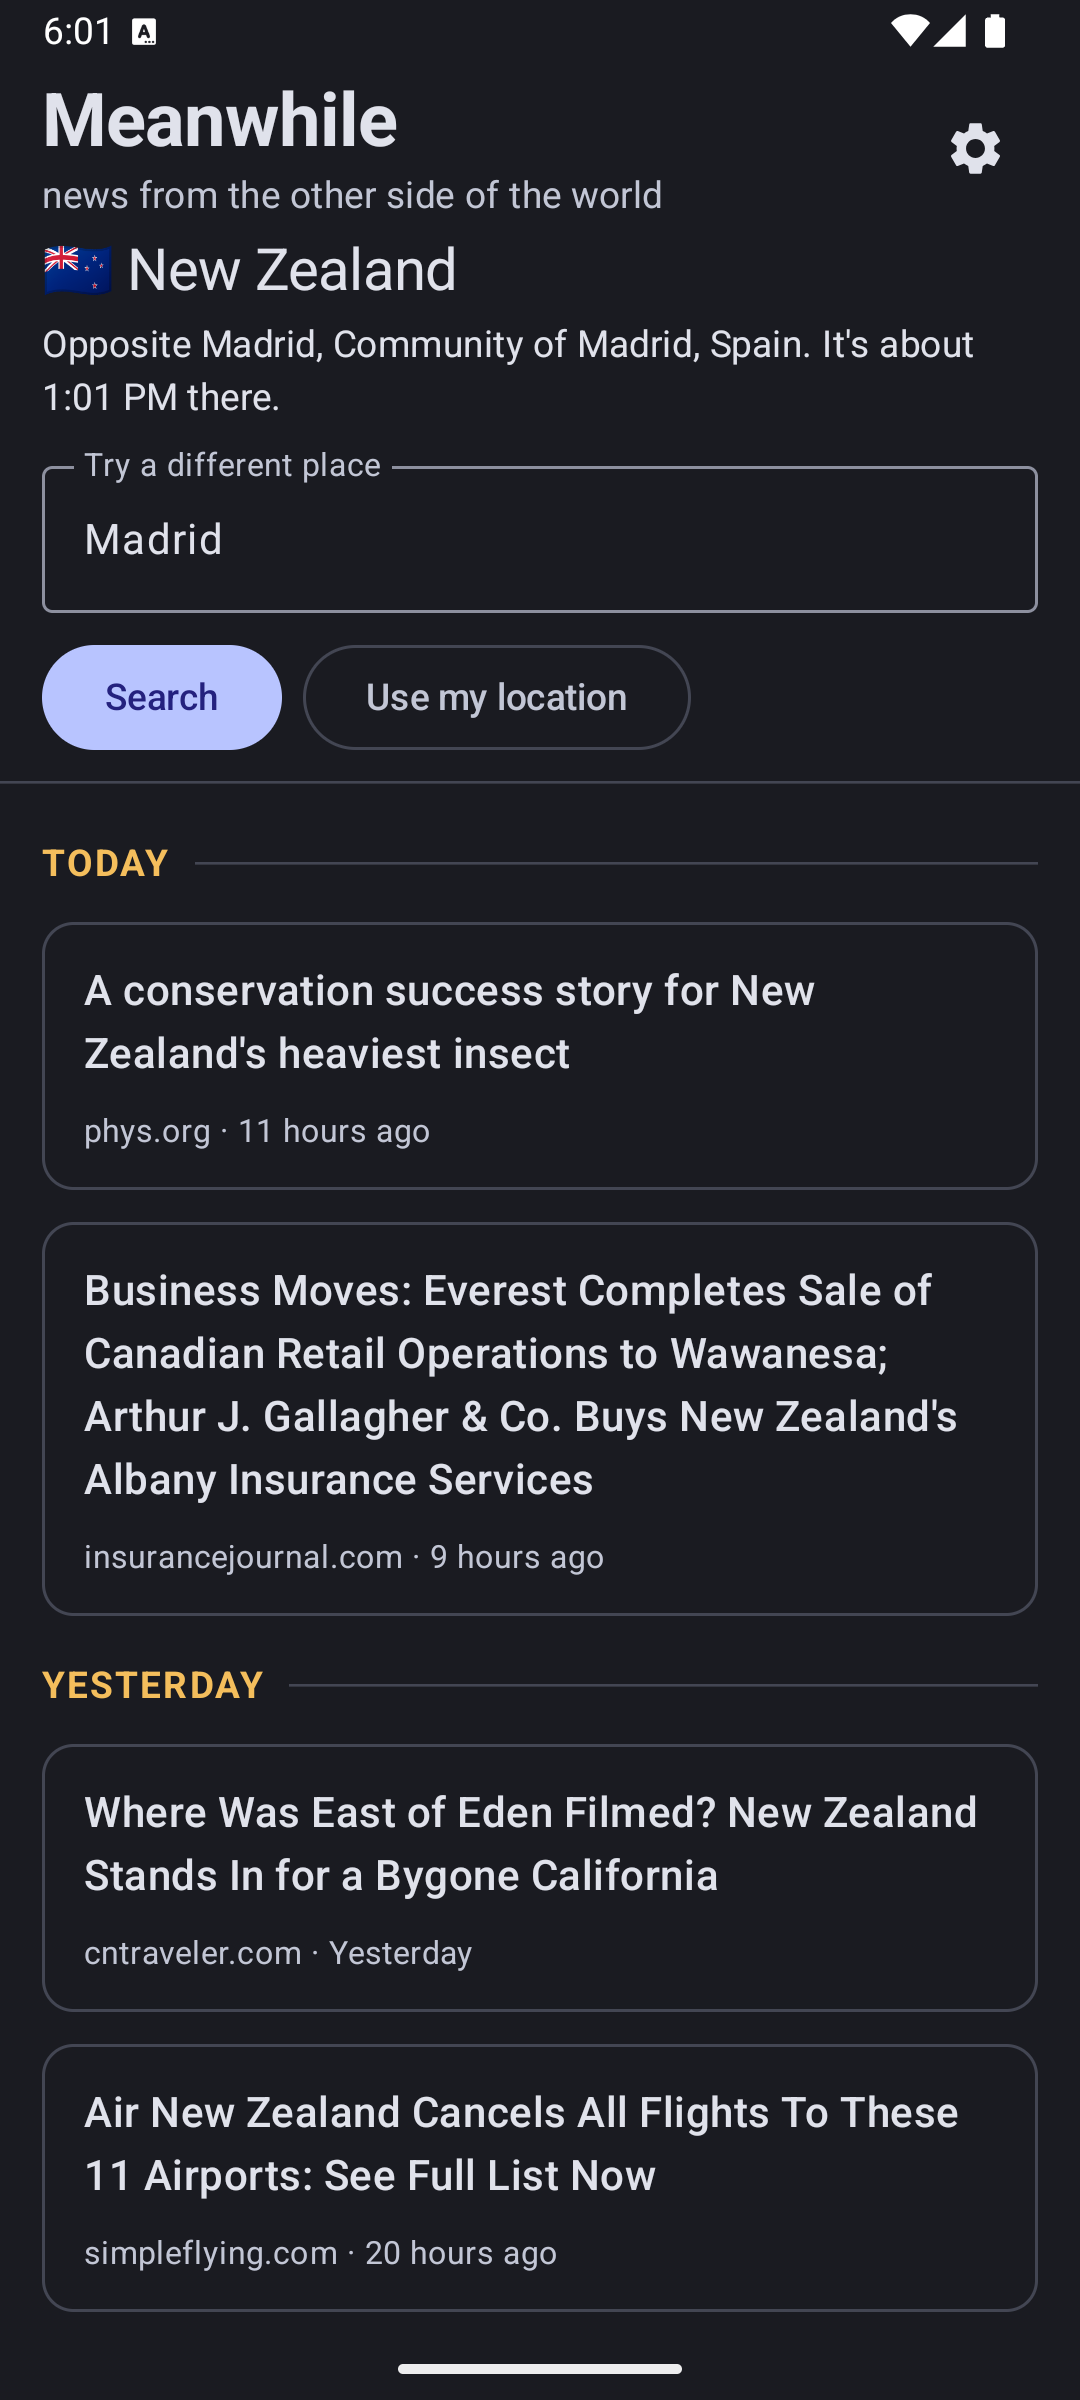
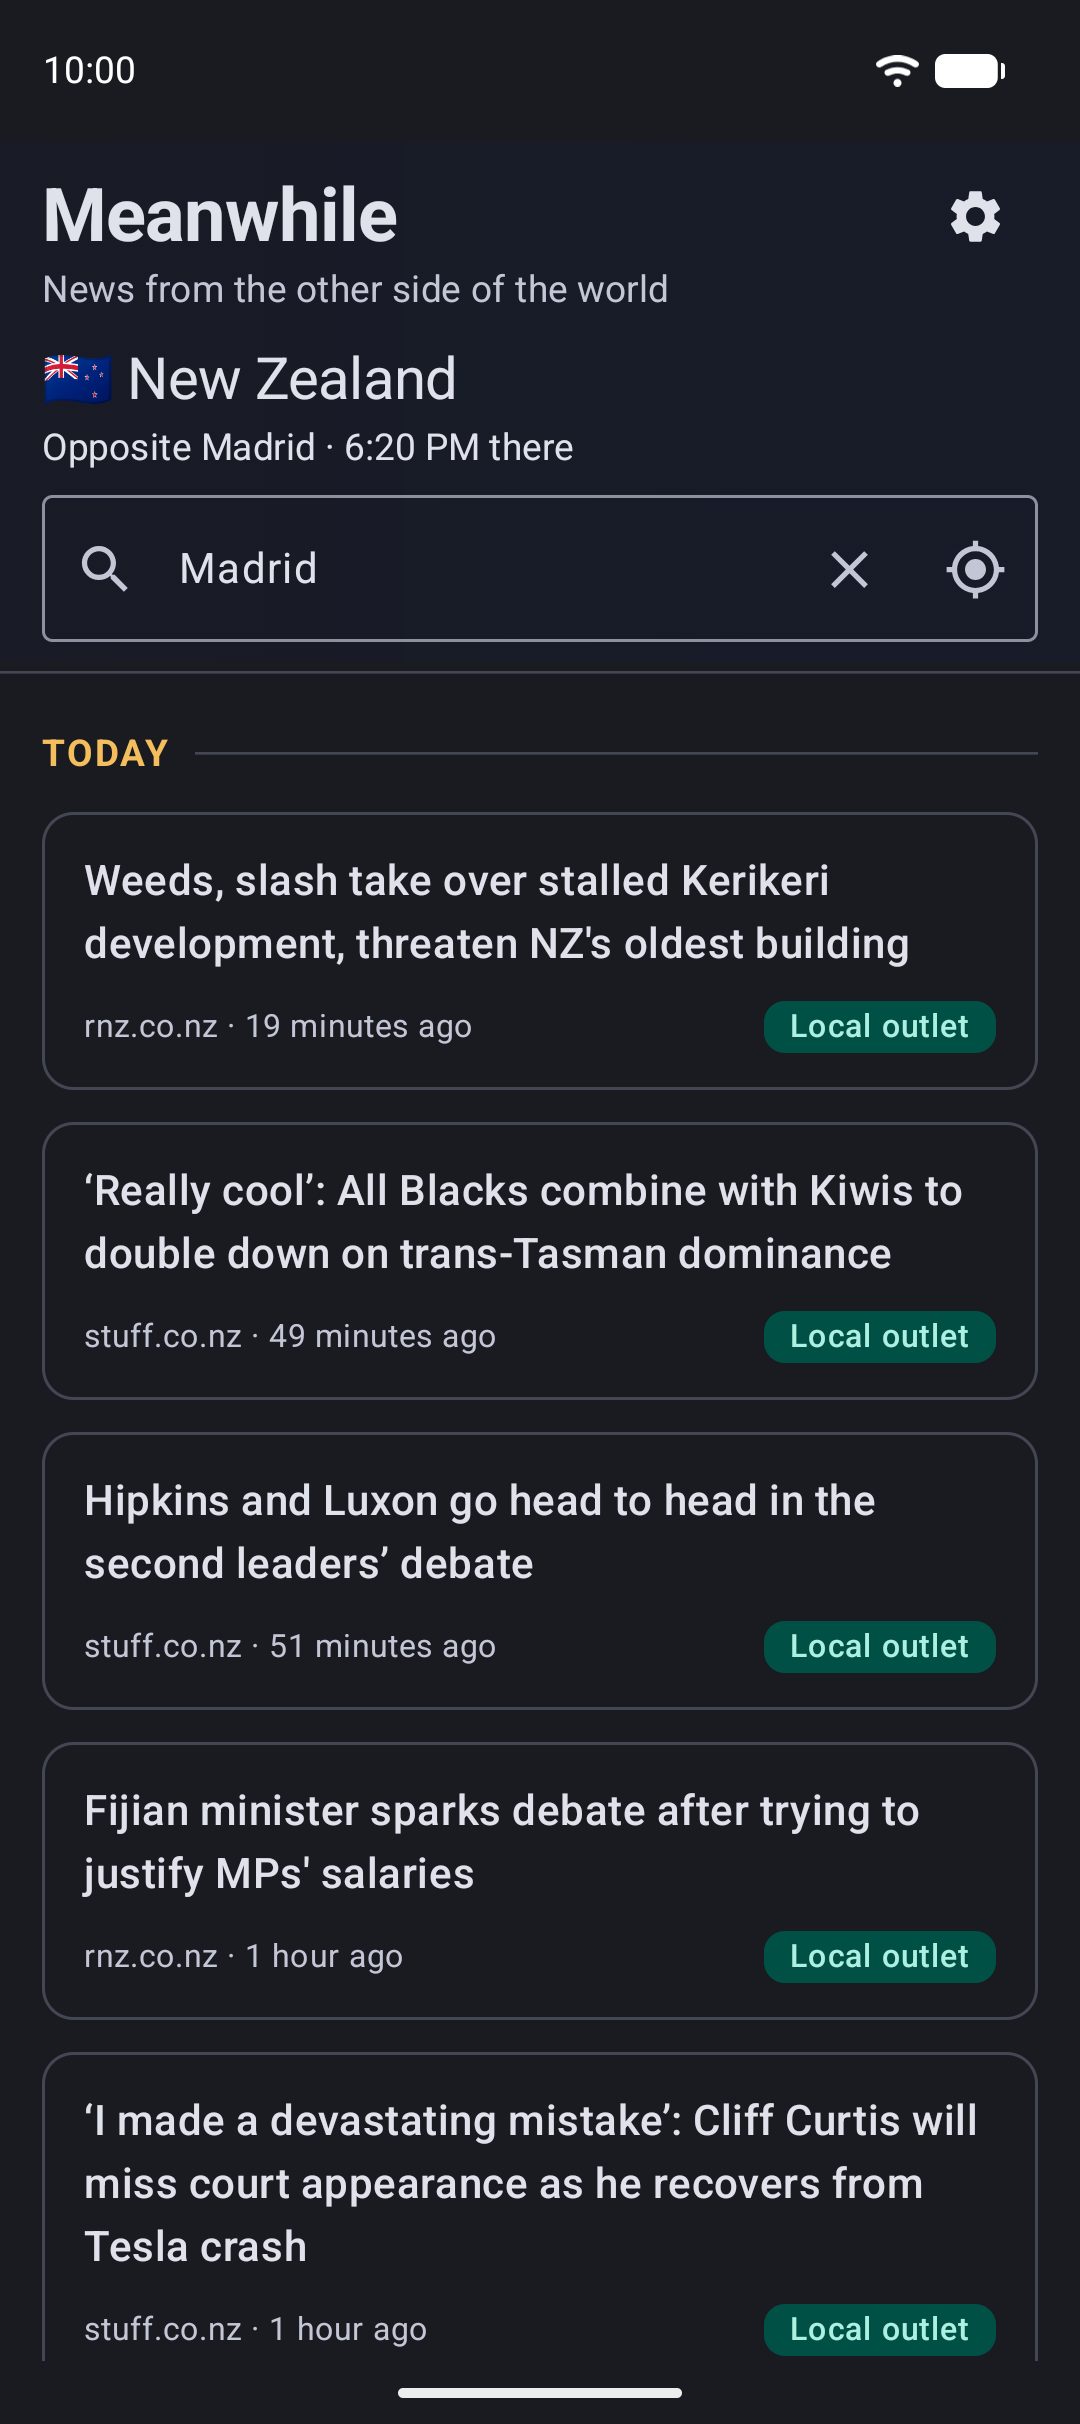
Retake the README and Play listing screenshots
Fresh captures from a release build on the Pixel 10 emulator, with a clean
demo-mode status bar and searched places (Madrid for New Zealand headlines,
New York for the Indian Ocean) instead of a device location. The framed Play
images are re-rendered with make.py, whose status-bar crop now matches the
2424 px tall captures.

diff --git a/docs/play-store/screenshots/shot-1.html b/docs/play-store/screenshots/shot-1.html
@@ -10,7 +10,7 @@
   .phone { position: absolute; left: 160px; top: 470px; width: 760px; box-sizing: border-box; border: 16px solid #0b0d27;
             border-radius: 88px; overflow: hidden; background: #fbfcff; padding-top: 34px; box-shadow: 0 30px 80px rgba(0,0,0,.45); }
   .phone .clip { overflow: hidden; }
-  .phone img { display: block; width: 100%; margin-top: -65px; }
+  .phone img { display: block; width: 100%; margin-top: -96px; }
 </style></head>
 <body><div class="bar"></div><h1>Headlines from the other side of the world</h1>
 <div class="phone"><div class="clip"><img src="../../screenshots/headlines.png" alt=""></div></div></body></html>

diff --git a/docs/play-store/screenshots/shot-2.html b/docs/play-store/screenshots/shot-2.html
@@ -10,7 +10,7 @@
   .phone { position: absolute; left: 160px; top: 470px; width: 760px; box-sizing: border-box; border: 16px solid #0b0d27;
             border-radius: 88px; overflow: hidden; background: #fbfcff; padding-top: 34px; box-shadow: 0 30px 80px rgba(0,0,0,.45); }
   .phone .clip { overflow: hidden; }
-  .phone img { display: block; width: 100%; margin-top: -65px; }
+  .phone img { display: block; width: 100%; margin-top: -96px; }
 </style></head>
 <body><div class="bar"></div><h1>Most of the planet is water, so start at sea</h1>
 <div class="phone"><div class="clip"><img src="../../screenshots/ocean.png" alt=""></div></div></body></html>

diff --git a/docs/play-store/screenshots/shot-3.html b/docs/play-store/screenshots/shot-3.html
@@ -10,7 +10,7 @@
   .phone { position: absolute; left: 160px; top: 470px; width: 760px; box-sizing: border-box; border: 16px solid #0b0d27;
             border-radius: 88px; overflow: hidden; background: #1a1b21; padding-top: 34px; box-shadow: 0 30px 80px rgba(0,0,0,.45); }
   .phone .clip { overflow: hidden; }
-  .phone img { display: block; width: 100%; margin-top: -65px; }
+  .phone img { display: block; width: 100%; margin-top: -96px; }
 </style></head>
 <body><div class="bar"></div><h1>Easy on the eyes at night</h1>
 <div class="phone"><div class="clip"><img src="../../screenshots/headlines-dark.png" alt=""></div></div></body></html>

diff --git a/docs/play-store/screenshots/shot-4.html b/docs/play-store/screenshots/shot-4.html
@@ -10,7 +10,7 @@
   .phone { position: absolute; left: 160px; top: 470px; width: 760px; box-sizing: border-box; border: 16px solid #0b0d27;
             border-radius: 88px; overflow: hidden; background: #fbfcff; padding-top: 34px; box-shadow: 0 30px 80px rgba(0,0,0,.45); }
   .phone .clip { overflow: hidden; }
-  .phone img { display: block; width: 100%; margin-top: -65px; }
+  .phone img { display: block; width: 100%; margin-top: -96px; }
 </style></head>
 <body><div class="bar"></div><h1>Private by default</h1>
 <div class="phone"><div class="clip"><img src="../../screenshots/about-privacy.png" alt=""></div></div></body></html>

diff --git a/docs/play-store/screenshots/make.py b/docs/play-store/screenshots/make.py
@@ -11,8 +11,8 @@ SHOTS = [
     ("about-privacy.png", "Private by default", "private", LIGHT),
 ]
 # The raw captures include the emulator's status bar (clock, battery), which the frame's rounded corners would clip.
-# Crop it off (CROP_TOP of the 2400 px height) and give the screen a little padding in the app's own colour instead.
-CROP_TOP = 96
+# Crop it off (CROP_TOP of the 2424 px height, Pixel 10 emulator) and give the screen a little padding in the app's own colour instead.
+CROP_TOP = 142
 PAD_TOP = 34
 
 TEMPLATE = """<!DOCTYPE html>
